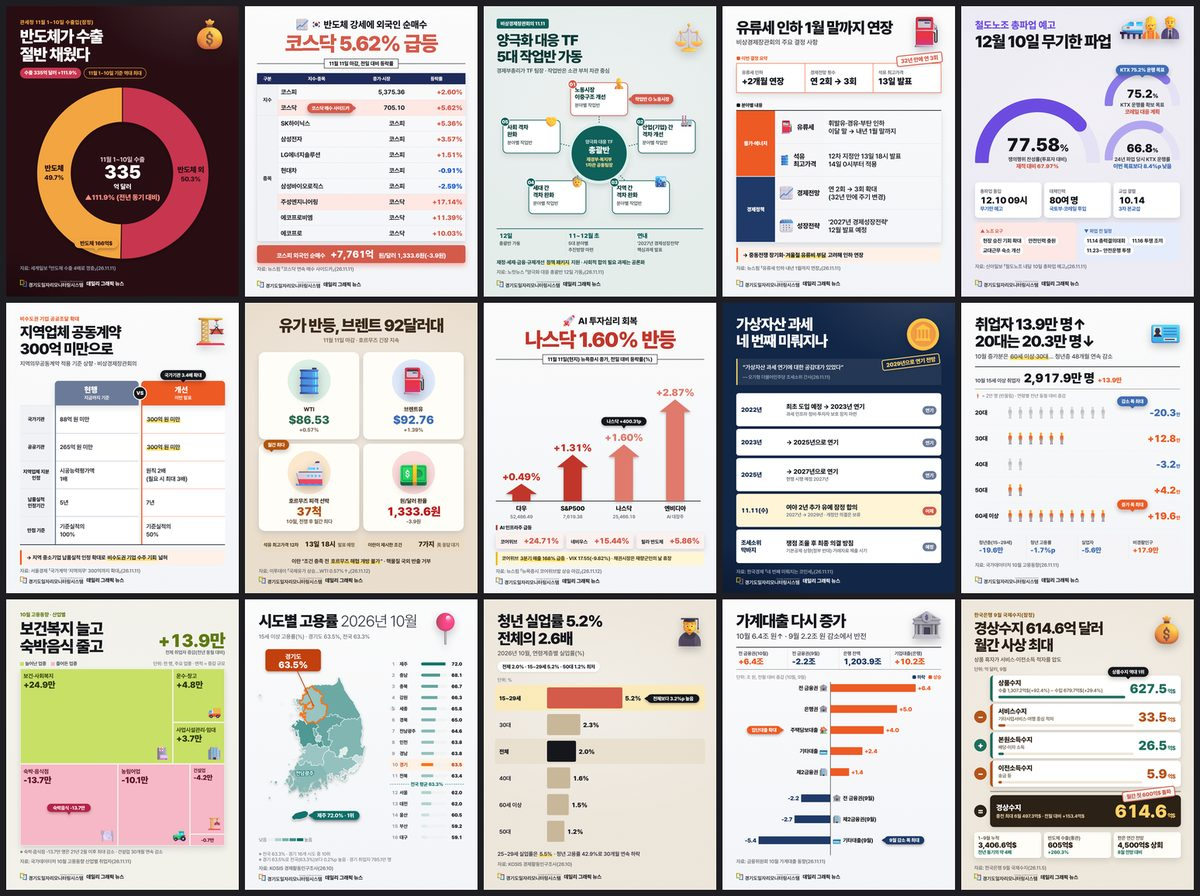
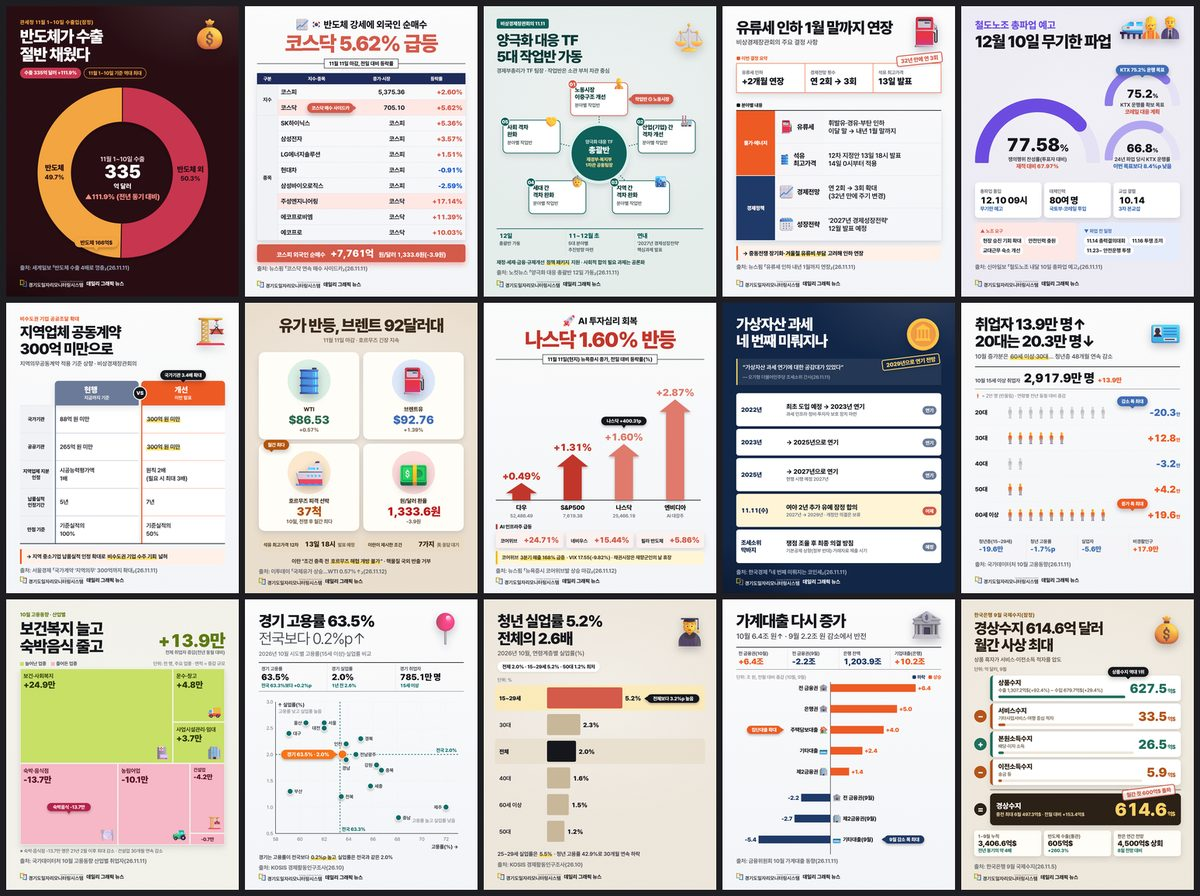
261112 웹페이지 수정(12번 제목·미리보기 갱신)
Claude-Session: https://claude.ai/code/session_015uJhCQ7cEk3TV84yFqUjX6

diff --git a/daily/2026-11-12/index.html b/daily/2026-11-12/index.html
@@ -13,7 +13,7 @@
 <li><span class="n">09</span><div><b>가상자산 과세 네 번째 미뤄지나</b><span class="s"><a href="https://www.hankyung.com/article/2026111112377" target="_blank" rel="noopener">한국경제 「네 번째 미뤄지는 코인세」(26.11.11)</a></span></div></li>
 <li><span class="n">10</span><div><b>10월 취업자 13.9만 명↑, 20대는 20.3만 명↓</b><span class="s"><a href="https://view.asiae.co.kr/article/2026111108394180856" target="_blank" rel="noopener">국가데이터처 10월 고용동향(26.11.11)</a></span></div></li>
 <li><span class="n">11</span><div><b>산업별 취업자, 보건복지 늘고 숙박음식 줄고</b><span class="s"><a href="https://www.fnnews.com/news/202611110823120610" target="_blank" rel="noopener">국가데이터처 10월 고용동향 산업별 취업자(26.11.11)</a></span></div></li>
-<li><span class="n">12</span><div><b>시도별 고용률 경기 63.5%</b><span class="s"><a href="https://kosis.kr/statHtml/statHtml.do?orgId=101&amp;tblId=DT_1DA7004S" target="_blank" rel="noopener">KOSIS 경제활동인구조사(26.10)</a></span></div></li>
+<li><span class="n">12</span><div><b>경기 고용률 63.5%, 실업률 2.0%(시도별 비교)</b><span class="s"><a href="https://kosis.kr/statHtml/statHtml.do?orgId=101&amp;tblId=DT_1DA7004S" target="_blank" rel="noopener">KOSIS 경제활동인구조사(26.10)</a></span></div></li>
 <li><span class="n">13</span><div><b>청년 실업률 5.2%, 전체의 2.6배</b><span class="s"><a href="https://kosis.kr/statHtml/statHtml.do?orgId=101&amp;tblId=DT_1DA7102S" target="_blank" rel="noopener">KOSIS 경제활동인구조사(26.10)</a></span></div></li>
 <li><span class="n">14</span><div><b>가계대출 다시 증가(10월 6.4조 원)</b><span class="s"><a href="https://www.ziksir.com/news/articleView.html?idxno=152890" target="_blank" rel="noopener">금융위원회 10월 가계대출 동향(26.11.11)</a></span></div></li>
 <li><span class="n">15</span><div><b>경상수지 614.6억 달러, 월간 사상 최대</b><span class="s"><a href="https://eiec.kdi.re.kr/policy/materialView.do?num=289099" target="_blank" rel="noopener">한국은행 9월 국제수지(26.11.5)</a></span></div></li>
